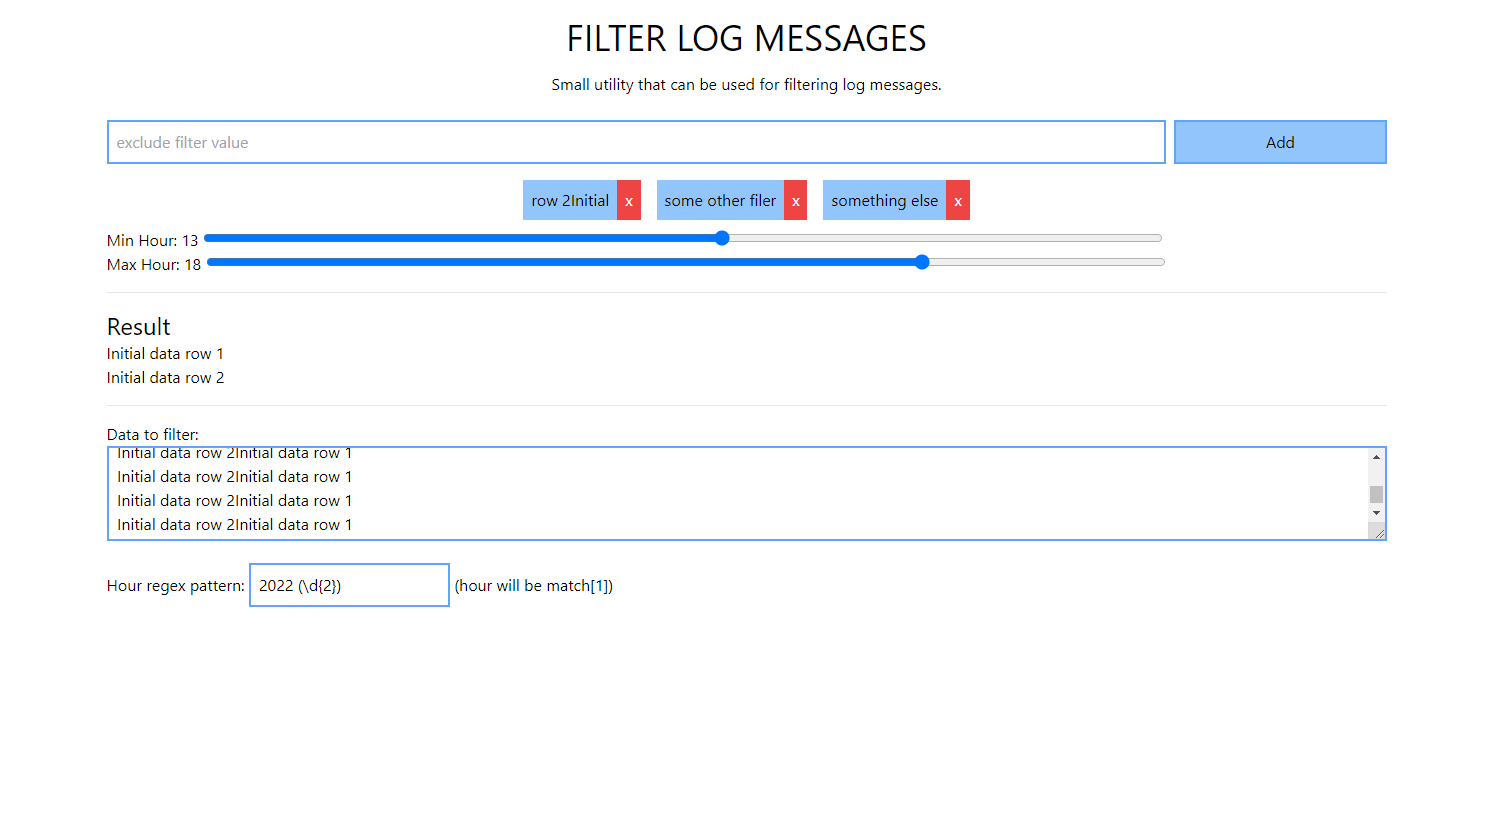
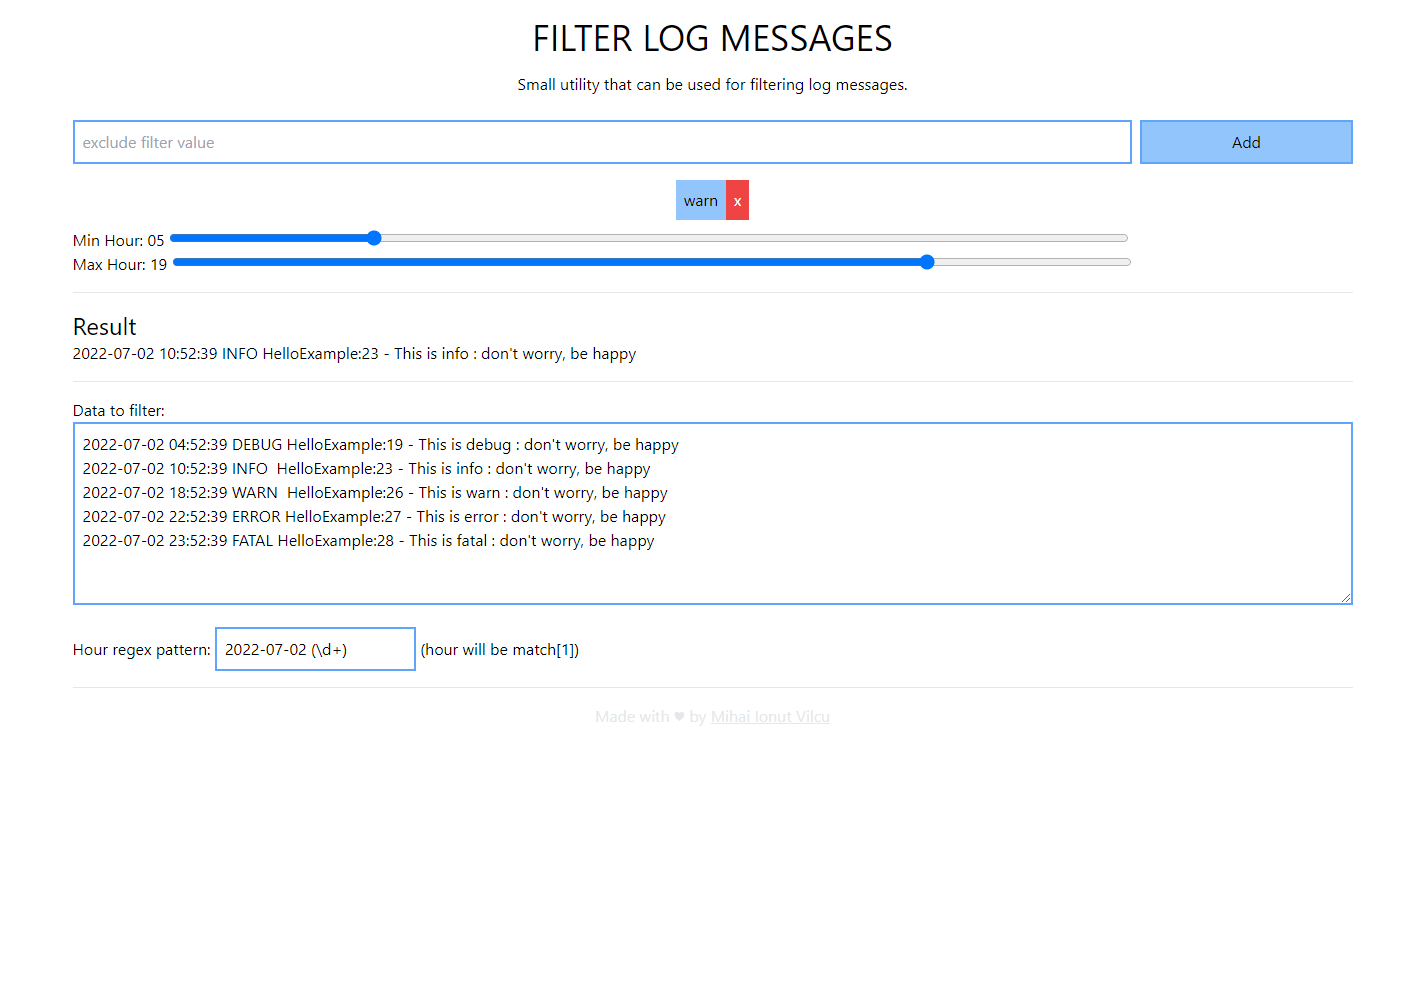
1 binaries uploaded

diff --git a/index.js b/index.js
@@ -5,16 +5,27 @@ Alpine.data('appData', () => ({
     filters: [],
     maxHour: 24,
     minHour: 0,
-    datePattern: '2022 (\\d{2})',
+    datePattern: '2022-07-02  (\\d+)',
   },
-  messagesText: 'Initial data row 1\nInitial data row 2',
+  messagesText: `2022-07-02 04:52:39 DEBUG HelloExample:19 - This is debug : don't worry, be happy
+2022-07-02 10:52:39 INFO  HelloExample:23 - This is info : don't worry, be happy
+2022-07-02 18:52:39 WARN  HelloExample:26 - This is warn : don't worry, be happy
+2022-07-02 22:52:39 ERROR HelloExample:27 - This is error : don't worry, be happy
+2022-07-02 23:52:39 FATAL HelloExample:28 - This is fatal : don't worry, be happy`,
+  hasRegexError: false,
 
   get messagesList() {
     return this.messagesText.split('\n');
   },
   get filteredMessagesList() {
-    let hourRegex = new RegExp(this.state.datePattern, 'g');
-
+    let hourRegex = null;
+    try {
+      hourRegex = new RegExp(this.state.datePattern, '');
+      this.hasRegexError = false;
+    } catch (e) {
+      console.error(e);
+      this.hasRegexError = true;
+    }
     return this.messagesList.filter((text) => {
       let isHidden = false;
 
@@ -27,6 +38,7 @@ Alpine.data('appData', () => ({
 
       let hourMatch = text.match(hourRegex);
       let hour = hourMatch && hourMatch[1];
+      console.log(hourMatch);
 
       if (hour && Number(hour) > this.state.maxHour) {
         isHidden = true;

diff --git a/index.html b/index.html
@@ -97,12 +97,22 @@
       <label class="w-full block my-4">
         Hour regex pattern:
         <input
-          class="p-2 border-2 border-blue-400"
+          class="p-2 border-2 outline-none focus:ring"
+          :class="{'border-red-400': hasRegexError, 'border-blue-400': !hasRegexError }"
           type="text"
           x-model="state.datePattern"
         />
         (hour will be match[1])
       </label>
+    </div>
+
+    <hr class="my-4" />
+
+    <div class="text-center text-gray-200 hover:text-gray-400">
+      Made with ♥ by
+      <a class="underline" href="https://github.com/ionutvmi"
+        >Mihai Ionut Vilcu</a
+      >
     </div>
   </body>
 </html>

diff --git a/README.md b/README.md
@@ -1,3 +1,14 @@
-# alpine-filter-app
+# Filer log messages
 
-[Edit on StackBlitz ⚡](https://stackblitz.com/edit/alpine-filter-app)
+Small utility that can be used for filtering log messages.
+
+![screenshot](log-filter.png)
+
+[https://alpine-filter-app.stackblitz.io](https://alpine-filter-app.stackblitz.io)
+
+## Author
+
+Mihai Ionut Vilcu
+
+- [github/ionutvmi](https://github.com/ionutvmi)
+- [twitter/mihaivlc93](http://twitter.com/mihaivlc93)
